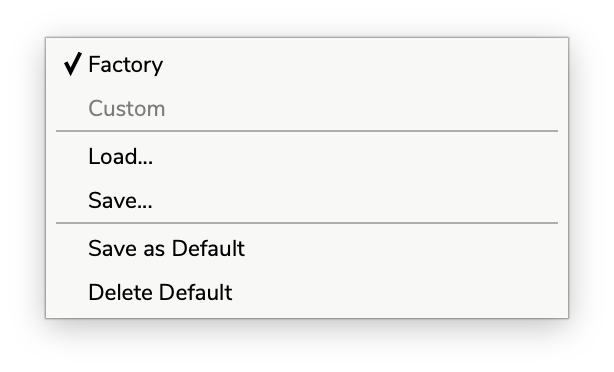
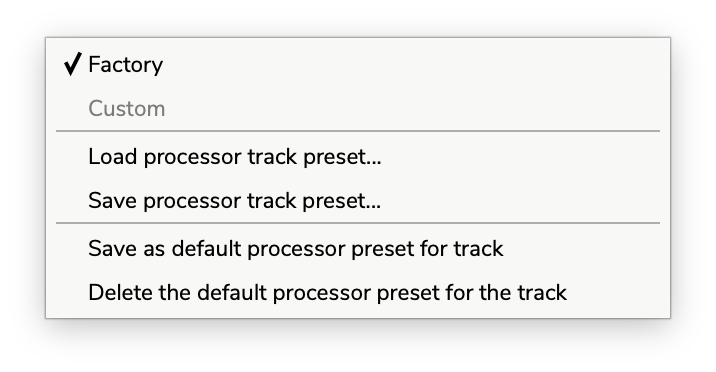
Docs: update Partiels-Manual.md and images

diff --git a/Docs/Partiels-Manual.md b/Docs/Partiels-Manual.md
@@ -665,13 +665,15 @@ Depending on the plugin characteristics, the section provides access to the defa
 
 The section provides access to the plugin-specific parameters that are used to perform the analysis. According to their specifications, parameter values can be controlled by a toggle button (on/off), a number field (integer or floating-point values), or a dropdown menu (list of items). Modifying the parameters triggers the analysis and produces new results. If the track is loaded from a file or if the analysis results have been modified, the application displays a dialog window warning you that the file will be detached from the track before performing the analysis and asking if you wish to continue (you can always cancel the operation to recover the previous analysis results).
 
+#### 9.1.3. Preset
+
 <p align="center">
-<img src="Images/section-track-properties.4-v2.3.0.png" width="196"/>
+<img src="Images/section-track-properties.4-v2.3.0.png" width="238"/>
 </p>
 
-The presets menu allows you to restore the factory value of the parameters. You can also save the current state of the parameters to a file on your operating system and load this file to restore the state (the file can be used in any other track using the same plugin). You can also save the current state as the default preset for the plugin. This way, when you add a new track with this plugin, this preset will be used directly. Alternatively, you can delete the default preset to use the default state provided by the plugin.
+The presets menu allows you to restore the factory values of the processor parameters. You can also save the current state of the processor parameters to a file on your operating system and load this file to restore the processor state (the file can be used in any other track using the same plugin). You can also save the current processor state as the default processor preset for the plugin. This way, when you add a new track with this plugin, this processor preset will be used directly. Alternatively, you can delete the default processor preset to use the default processor state provided by the plugin.
 
-#### 9.1.3. State
+#### 9.1.4. State
 
 The current state of the plugin is displayed at the bottom of the section, indicating whether the analysis or loading succeeded or failed and whether the results have been modified.
 
@@ -769,6 +771,14 @@ The value range of point and column results can be adapted to optimize the graph
 - Show in the group overlay view: The toggle button allows showing or hiding the track in the group's overlay view. This property can also be modified with the other groups via the [group properties](#10-group-properties) window.
 
 - Channel Layout: The channel layout button allows showing or hiding the channels of analysis results. This channel layout is only graphical and does not change the audio analysis or the audio playback (please refer to the audio files layout section). This property can also be modified with the other groups via the [group properties](#10-group-properties) window.
+
+#### 9.2.5. Preset 
+
+<p align="center">
+<img src="Images/section-track-properties.10-v2.3.0.png" width="230"/>
+</p>
+
+The presets menu allows you to save the current graphic state to a file on your operating system and load this file to restore the graphic state (the file can be used in any other track using the same plugin). You can also save the current graphic state as the default graphic preset for the plugin. This way, when you add a new track with this plugin, this graphic preset will be used directly. Alternatively, you can delete the default graphic preset to use the default graphic state defined by the application.
 
 ### 9.3. OSC
 
